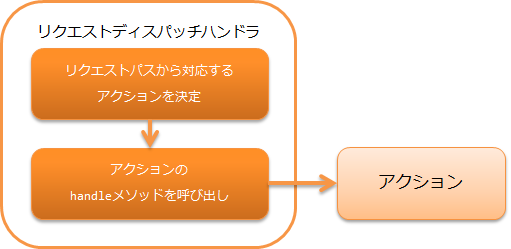
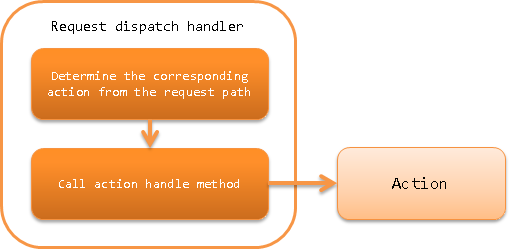
リクエストディスパッチハンドラページを英語化

diff --git a/en/application_framework/application_framework/handlers/common/request_path_java_package_mapping.rst b/en/application_framework/application_framework/handlers/common/request_path_java_package_mapping.rst
@@ -1,52 +1,52 @@
 .. _request_path_java_package_mapping:
 
-リクエストディスパッチハンドラ
+Request Dispatch Handler
 ========================================
-.. contents:: 目次
+.. contents:: Table of contents
   :depth: 3
   :local:
 
-本ハンドラは、アプリケーションの機能ごとに行う処理を記載するアクションに処理を委譲する。
-本ハンドラは、主に :ref:`メッセージング <messaging>` の機能で、任意のアクションにディスパッチする目的で使用する。
+This handler delegates processing to an action that describes the process to be performed for each function of the application.
+This handler is mainly a function for :ref:`messaging <messaging>`, and is used for dispatching to an arbitrary action.
 
-本ハンドラでは、 :java:extdoc:`Request#getRequestPath() <nablarch.fw.Request.getRequestPath()>` で取得した
-リクエストパスを元に、ディスパッチ先のアクションを選択する。
-リクエストパスの形式は以下を想定している。
+In this handler, the dispatch destination action is selected based on the request path acquired by
+:java:extdoc:`Request#getRequestPath() <nablarch.fw.Request.getRequestPath()>`.
+The request path format assumes the following:
 
-リクエストパスの形式\: /\<basePath\>/\<className\>
+Request path format\: /\<basePath\>/\<className\>
 
-上記形式の\<\>で囲まれた部分はそれぞれ下記を意味する。
+Each of the parts enclosed by \<\> in the format above have the following meanings.
 
 ============= =================================================================
-ラベル        意味
+Label         Meaning
 ============= =================================================================
-basePath      ディスパッチ対象を表すベースパス
-className     クラス名 (必須)
+basePath      Base path representing the dispatch target
+className     Class name (required)
 ============= =================================================================
 
-たとえば、クラス ``xxx.yyy.ExampleBatchAction`` を呼び出す場合に、ベースパスが ``batch`` の場合は
-``/batch/ExampleBatchAction`` のようにリクエストパスを指定する。
+For example, when calling the class ``xxx.yyy.ExampleBatchAction``,
+if the base path is ``batch``, specify a request path like ``/batch/ExampleBatchAction``.
 
 
 .. important::
-  通常、 :java:extdoc:`Request#getRequestPath() <nablarch.fw.Request.getRequestPath()>` で取得されるリクエストパスは、
-  :ref:`main` に記載の通り、コマンドラインで起動する際に ``-requestPath`` オプションで指定する。
+  Normally, the request path acquired by :java:extdoc:`Request#getRequestPath() <nablarch.fw.Request.getRequestPath()>` is
+  specified by the ``-requestPath`` option when launched in the command line as described in :ref:`main`.
 
 
-本ハンドラでは、以下の処理を行う。
+This handler performs the following process.
 
-* リクエストパスを解析し、対応するアクションの handle メソッドを呼び出す。
+* Parses the request path and calls the handle method of the corresponding action.
 
 
-処理の流れは以下のとおり。
+The process flow is as follows.
 
 .. image:: ../images/RequestPathJavaPackageMapping/flow.png
 
-ハンドラクラス名
+Handler class name
 --------------------------------------------------
 * :java:extdoc:`nablarch.fw.handler.RequestPathJavaPackageMapping`
 
-モジュール一覧
+Module list
 --------------------------------------------------
 .. code-block:: xml
 
@@ -55,23 +55,23 @@ className     クラス名 (必須)
     <artifactId>nablarch-fw</artifactId>
   </dependency>
 
-制約
+Constraints
 ------------------------------
 
-ハンドラキューの最後に置くこと
-  本ハンドラは、後続のハンドラの呼び出しを行わない。
-  このため、本ハンドラはハンドラキューの最後に配置すること。
+Must be placed at the end of the handler queue
+  This handler does not call subsequent handlers.
+  Place this handler at the end of the handler queue.
 
 
 .. _request_path_java_package_mapping_path_setting:
 
-ベースパッケージ、ベースパスの設定
+Base package and base path settings
 ------------------------------------------------------------
 
-本ハンドラのディスパッチ先のクラスを配置するベースパッケージと、リクエストパスにつけるベースパスは、
-プロパティ ``basePackage`` および ``basePath`` で設定できる。
+The base package for placing the dispatch destination class of this handler,
+and the base path added to the request path can be configured with the properties ``basePackage`` and ``basePath``.
 
-ベースパッケージを ``nablarch.application`` 、ベースパスを ``/app/action`` に設定する例を以下に示す。
+An example of configuring the base package to ``nablarch.application`` and the base path to ``/app/action`` is shown below.
 
 
 .. code-block:: xml
@@ -84,25 +84,25 @@ className     クラス名 (必須)
 
 .. _request_path_java_package_mapping_multi_package_dispatch:
 
-複数パッケージのクラスにディスパッチする
+Dispatch to classes of multiple packages
 ------------------------------------------------------------------------------------------------------------------------
 
-本ハンドラを使ってディスパッチする場合、ディスパッチ先のクラスは、リクエストパスの指定によって複数振り分けることができる。
-この際は、リクエストパスでクラス名を指定する箇所で、ベースパッケージからの相対パッケージ名を指定する。
+When dispatching using this handler, multiple dispatch destination classes can be allotted by specifying the request path.
+At this time, specify the relative package name from the base package in the location where the class name is specified with the request path.
 
-たとえば上記 :ref:`request_path_java_package_mapping_path_setting` の設定を行った際に、 ``nablarch.application.xxx.ExampleBatchAction``
-クラスにディスパッチする場合、リクエストパスには ``/app/action/xxx/ExampleBatchAction`` を指定すればよい。
+For example, when :ref:`request_path_java_package_mapping_path_setting` is configured,
+specify ``/app/action/xxx/ExampleBatchAction`` in the request path when dispatching to the ``nablarch.application.xxx.ExampleBatchAction`` class.
 
 
-クラス名のプレフィクス、サフィックスの設定
+Configuration of class name prefix and suffix
 ------------------------------------------------------------------------------------------------------------------------
 
-クラス名のプレフィクス、サフィックスをリクエストパスに出したくない場合、本ハンドラの ``classNamePrefix`` および ``classNameSuffix``
-を設定することでリクエストパスでの指定を省略できる。
+If you do not want to provide a class name prefix and suffix in the request path,
+the specification in the request path can be omitted by configuring ``classNamePrefix`` and ``classNameSuffix`` of this handler.
 
-たとえば、クラス名を ``XxxProjectXxxxBatchAction`` のように、プレフィクスに ``XxxProject`` というプロジェクト名、
-サフィックスに ``BatchAction`` を指定するルールを取った場合、以下のように設定することでリクエストパスを
-``/app/action/Xxxx`` のように省略できる。
+For example, when following the rule that specifies ``XxxProject`` as the prefix and ``BatchAction`` as the suffix,
+for a class name ``XxxProjectXxxxBatchAction``, the request path ``/app/action/Xxxx``
+can be omitted by configuring as follows:
 
 
 
@@ -118,32 +118,32 @@ className     クラス名 (必須)
 
 .. _request_path_java_package_mapping_optional_package_dispatch:
 
-複雑なパッケージへのディスパッチ
+Dispatch to complex packages
 ------------------------------------------------------------------------------------------------------------------------
 
-:ref:`request_path_java_package_mapping_multi_package_dispatch` で示した方法では、
-「アクションを配置するパッケージを同じパッケージ配下のサブパッケージにまとめないといけない」制約がある。
-本ハンドラでは、このようなディスパッチでは問題がある場合に、 アクションを配置するパッケージをリクエストパスごとに別々に設定する方法を提供している。
+The method shown in :ref:`request_path_java_package_mapping_multi_package_dispatch` has a constraint that
+"the packages where actions are placed must be grouped into sub-packages under the same package".
+This handler provides a method for separately configuring the package in which actions are placed for each request path when there is a problem with such a dispatch.
 
 
-たとえば、以下のようなリクエストパスとディスパッチ先を設定する場合を考える。
+Consider an example where the following request path and dispatch destination are configured.
 
 ========================================== ======================================
-リクエストパス                             ディスパッチ対象クラス
+Request path                               Class to be dispatched
 ========================================== ======================================
 /admin/AdminApp                            nablarch.sample.apps1.admin.AdminApp
 /user/UserApp                              nablarch.sample.apps2.user.UserApp
 /BaseApp                                   nablarch.sample.base.BaseApp
 ========================================== ======================================
 
-このようなディスパッチを行う場合、以下のように ``optionalPackageMappingEntries`` プロパティに
-:java:extdoc:`JavaPackageMappingEntry <nablarch.fw.handler.JavaPackageMappingEntry>` クラスを使用して設定を行う。
+To perform such a dispatch, the ``optionalPackageMappingEntries`` is configured using the
+:java:extdoc:`JavaPackageMappingEntry <nablarch.fw.handler.JavaPackageMappingEntry>` class as follows.
 
 .. code-block:: xml
 
   <component class="nablarch.fw.handler.RequestPathJavaPackageMapping">
       <property name="optionalPackageMappingEntries">
-        <!-- リクエストパスのパターンとJavaパッケージの組み合わせをマッチさせたい順番に記載する。 -->
+        <!-- Describe the combination of the request path pattern and Java package in the order to be matched. -->
         <list>
           <component class="nablarch.fw.handler.JavaPackageMappingEntry">
             <property name="requestPattern" value="/admin//" />
@@ -155,7 +155,7 @@ className     クラス名 (必須)
           </component>
         </list>
       </property>
-      <!-- optionalPackageMappingEntriesにマッチするものが存在しない場合に使用されるJavaパッケージ -->
+      <!-- Java package used when there is no match for optionalPackageMappingEntries -->
       <property name="basePackage" value="nablarch.sample.base" />
   </component>
 

diff --git a/en/application_framework/application_framework/setting_guide/CustomizingConfigurations/index.rst b/en/application_framework/application_framework/setting_guide/CustomizingConfigurations/index.rst
@@ -82,7 +82,7 @@ DBの接続設定等、プロジェクト毎にほぼ確実に修正する箇所
 デフォルト値でPJ要件を満たせない場合は、デフォルト値を変更する
 ~~~~~~~~~~~~~~~~~~~~~~~~~~~~~~~~~~~~~~~~~~~~~~~~~~~~~~~~~~~~~~~~~~~~
 
-\ :download:`デフォルト設定一覧 <../../configuration/デフォルト設定一覧.xlsx>`\ を確認の上、デフォルト値でPJ要件を満たせない箇所については、環境設定ファイル(configファイル)を修正する。
+\ :download:`Default configuration list <../../configuration/default-configuration-list.xlsx>`\ を確認の上、デフォルト値でPJ要件を満たせない箇所については、環境設定ファイル(configファイル)を修正する。
 
 
 .. _how_to_customize_overwite_config_files:
@@ -92,7 +92,7 @@ DBの接続設定等、プロジェクト毎にほぼ確実に修正する箇所
 
 デフォルトコンフィグレーションの環境設定ファイル(config)で設定されている環境設定値を上書きしたい場合は、同名のプレースホルダーで再定義する。
 
-\ :download:`デフォルト設定一覧 <../../configuration/デフォルト設定一覧.xlsx>`\ でデフォルトコンフィグレーションで設定されている内容が確認できる。
+\ :download:`Default configuration list <../../configuration/default-configuration-list.xlsx>`\ でデフォルトコンフィグレーションで設定されている内容が確認できる。
 
 
 .. _how_to_customize_overwite_componet_file:
@@ -104,7 +104,7 @@ DBの接続設定等、プロジェクト毎にほぼ確実に修正する箇所
 もしくはコンポーネント自体をプロジェクトでカスタマイズした別のクラスに変更したい場合、
 PJ成果物のコンポーネント設定ファイルにコンポーネント定義ごと再定義する。
 
-\ :download:`デフォルト設定一覧 <../../configuration/デフォルト設定一覧.xlsx>`\ でデフォルトコンフィグレーションで、プレースホルダーが使われていない設定を確認できる。
+\ :download:`Default configuration list <../../configuration/default-configuration-list.xlsx>`\ でデフォルトコンフィグレーションで、プレースホルダーが使われていない設定を確認できる。
 
 デフォルト設定からコンポーネント定義を変更する必要がある場合、以下の手順に従って
 コンポーネントの再定義を行う。
